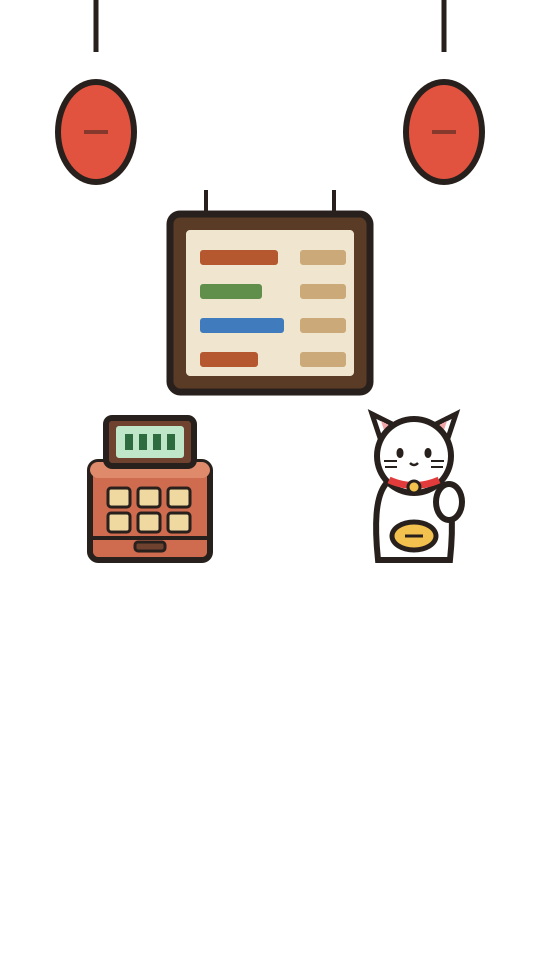
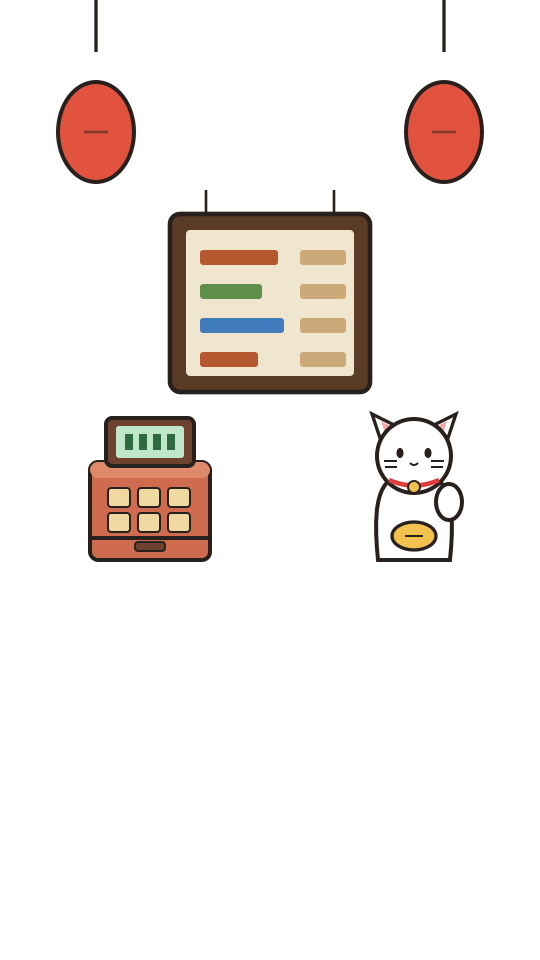
polish(menu): thinner outlines on the counter scene
Scaled the cashier prop stroke widths (register / lucky cat / lanterns / menu
board) down ~1/3 (floored at 2) and slimmed the noren bottom border and counter
top edge — the counter scene reads more refined, less chunky.

diff --git a/assets/env/gen_svg.py b/assets/env/gen_svg.py
@@ -13,31 +13,31 @@ def main():
     <!-- wall -->
     <rect width="{W}" height="{H}" fill="#e7d2ab"/>
     <rect y="300" width="{W}" height="212" fill="#d8c099"/>
-    <g stroke="#c9b083" stroke-width="3"><path d="M0 300 H{W} M128 300 V512 M384 300 V512 M640 300 V512 M256 406 H512"/></g>
+    <g stroke="#c9b083" stroke-width="2"><path d="M0 300 H{W} M128 300 V512 M384 300 V512 M640 300 V512 M256 406 H512"/></g>
     <!-- green noren across the top -->
-    <rect x="0" y="0" width="{W}" height="120" fill="#3f8f6a" stroke="{INK}" stroke-width="6"/>
-    <g stroke="{INK}" stroke-width="5">
+    <rect x="0" y="0" width="{W}" height="120" fill="#3f8f6a" stroke="{INK}" stroke-width="4"/>
+    <g stroke="{INK}" stroke-width="3.3">
       <path d="M110 120 V40 M220 120 V40 M330 120 V40 M440 120 V40 M550 120 V40 M660 120 V40"/></g>
     <!-- hanging lanterns -->
     <g>
-      <path d="M120 0 V60" stroke="{INK}" stroke-width="5"/>
-      <ellipse cx="120" cy="150" rx="42" ry="56" fill="#e2533f" stroke="{INK}" stroke-width="6"/>
-      <path d="M88 150 h64" stroke="{INK}" stroke-width="4" opacity="0.5"/>
-      <path d="M648 0 V60" stroke="{INK}" stroke-width="5"/>
-      <ellipse cx="648" cy="150" rx="42" ry="56" fill="#e2533f" stroke="{INK}" stroke-width="6"/>
-      <path d="M616 150 h64" stroke="{INK}" stroke-width="4" opacity="0.5"/></g>
+      <path d="M120 0 V60" stroke="{INK}" stroke-width="3.3"/>
+      <ellipse cx="120" cy="150" rx="42" ry="56" fill="#e2533f" stroke="{INK}" stroke-width="4"/>
+      <path d="M88 150 h64" stroke="{INK}" stroke-width="2.6" opacity="0.5"/>
+      <path d="M648 0 V60" stroke="{INK}" stroke-width="3.3"/>
+      <ellipse cx="648" cy="150" rx="42" ry="56" fill="#e2533f" stroke="{INK}" stroke-width="4"/>
+      <path d="M616 150 h64" stroke="{INK}" stroke-width="2.6" opacity="0.5"/></g>
     <!-- big steaming stock pot -->
-    <g fill="none" stroke="#ffffff" stroke-width="11" stroke-linecap="round" opacity="0.6">
+    <g fill="none" stroke="#ffffff" stroke-width="7.3" stroke-linecap="round" opacity="0.6">
       <path d="M250 250 q-26 -34 0 -68 q26 -34 0 -68"/>
       <path d="M320 250 q26 -34 0 -68 q-26 -34 0 -68"/></g>
-    <ellipse cx="290" cy="330" rx="118" ry="92" fill="#8d9099" stroke="{INK}" stroke-width="8"/>
-    <ellipse cx="290" cy="300" rx="110" ry="60" fill="#a6694a" stroke="{INK}" stroke-width="8"/>
+    <ellipse cx="290" cy="330" rx="118" ry="92" fill="#8d9099" stroke="{INK}" stroke-width="5.3"/>
+    <ellipse cx="290" cy="300" rx="110" ry="60" fill="#a6694a" stroke="{INK}" stroke-width="5.3"/>
     <ellipse cx="290" cy="300" rx="92" ry="46" fill="#eaa43e"/>
     <path d="M198 300 a92 46 0 0 0 184 0 a92 46 0 0 1 -184 0" fill="#d18b2c"/>
     <!-- a couple of ramen bowls on the right -->
     {bowl(560,300)}{bowl(660,330,0.8)}
     <!-- wooden counter -->
-    <rect x="0" y="430" width="{W}" height="82" fill="#a9743f" stroke="{INK}" stroke-width="8"/>
+    <rect x="0" y="430" width="{W}" height="82" fill="#a9743f" stroke="{INK}" stroke-width="5.3"/>
     <rect x="0" y="430" width="{W}" height="14" fill="#c08a4e"/>
     '''
     svg = f'<svg xmlns="http://www.w3.org/2000/svg" viewBox="0 0 {W} {H}">{body}</svg>'
@@ -50,8 +50,8 @@ def bowl(cx, cy, s=1.0):
     rx, ry = 60 * s, 30 * s
     return f'''<g>
     <path d="M{cx-rx} {cy} C{cx-rx} {cy-rx*0.7} {cx+rx} {cy-rx*0.7} {cx+rx} {cy} C{cx+rx} {cy+ry*1.6} {cx-rx} {cy+ry*1.6} {cx-rx} {cy} Z"
-          fill="#dc4a44" stroke="{INK}" stroke-width="7"/>
-    <ellipse cx="{cx}" cy="{cy}" rx="{rx}" ry="{ry}" fill="#ec6a60" stroke="{INK}" stroke-width="7"/>
+          fill="#dc4a44" stroke="{INK}" stroke-width="4.6"/>
+    <ellipse cx="{cx}" cy="{cy}" rx="{rx}" ry="{ry}" fill="#ec6a60" stroke="{INK}" stroke-width="4.6"/>
     <ellipse cx="{cx}" cy="{cy}" rx="{rx*0.78}" ry="{ry*0.72}" fill="#eaa43e"/>
     </g>'''
 
@@ -59,40 +59,40 @@ def bowl(cx, cy, s=1.0):
 def register(cx, by):
     # a cash register sitting with its base on the counter top (y=by)
     return f'''<g>
-    <rect x="{cx-60}" y="{by-98}" width="120" height="98" rx="8" fill="#cf6b4e" stroke="{INK}" stroke-width="6"/>
+    <rect x="{cx-60}" y="{by-98}" width="120" height="98" rx="8" fill="#cf6b4e" stroke="{INK}" stroke-width="4"/>
     <rect x="{cx-60}" y="{by-98}" width="120" height="16" rx="8" fill="#e08a6c"/>
     <!-- display housing + screen -->
-    <rect x="{cx-44}" y="{by-142}" width="88" height="48" rx="6" fill="#6f4230" stroke="{INK}" stroke-width="6"/>
+    <rect x="{cx-44}" y="{by-142}" width="88" height="48" rx="6" fill="#6f4230" stroke="{INK}" stroke-width="4"/>
     <rect x="{cx-34}" y="{by-134}" width="68" height="32" rx="3" fill="#bfe6c8"/>
     <g fill="#2e6b3f"><rect x="{cx-25}" y="{by-126}" width="8" height="16"/><rect x="{cx-11}" y="{by-126}" width="8" height="16"/><rect x="{cx+3}" y="{by-126}" width="8" height="16"/><rect x="{cx+17}" y="{by-126}" width="8" height="16"/></g>
     <!-- keypad -->
-    <g fill="#f0d9a0" stroke="{INK}" stroke-width="3">
+    <g fill="#f0d9a0" stroke="{INK}" stroke-width="2">
       <rect x="{cx-42}" y="{by-72}" width="22" height="19" rx="3"/><rect x="{cx-12}" y="{by-72}" width="22" height="19" rx="3"/><rect x="{cx+18}" y="{by-72}" width="22" height="19" rx="3"/>
       <rect x="{cx-42}" y="{by-47}" width="22" height="19" rx="3"/><rect x="{cx-12}" y="{by-47}" width="22" height="19" rx="3"/><rect x="{cx+18}" y="{by-47}" width="22" height="19" rx="3"/>
     </g>
     <!-- drawer line + handle -->
     <rect x="{cx-60}" y="{by-24}" width="120" height="4" fill="{INK}"/>
-    <rect x="{cx-15}" y="{by-18}" width="30" height="9" rx="3" fill="#6f4230" stroke="{INK}" stroke-width="3"/>
+    <rect x="{cx-15}" y="{by-18}" width="30" height="9" rx="3" fill="#6f4230" stroke="{INK}" stroke-width="2"/>
     </g>'''
 
 
 def lucky_cat(cx, by):
     # a maneki-neko sitting on the counter top (y=by)
     return f'''<g>
-    <path d="M{cx-36} {by} C{cx-44} {by-78} {cx-26} {by-86} {cx} {by-86} C{cx+26} {by-86} {cx+44} {by-78} {cx+36} {by} Z" fill="#ffffff" stroke="{INK}" stroke-width="6"/>
-    <ellipse cx="{cx}" cy="{by-24}" rx="22" ry="14" fill="#f2c14e" stroke="{INK}" stroke-width="5"/>
-    <path d="M{cx-9} {by-24} h18" stroke="{INK}" stroke-width="3"/>
-    <path d="M{cx-34} {by-122} l-8 -24 l26 13 Z" fill="#ffffff" stroke="{INK}" stroke-width="5"/>
-    <path d="M{cx+34} {by-122} l8 -24 l-26 13 Z" fill="#ffffff" stroke="{INK}" stroke-width="5"/>
+    <path d="M{cx-36} {by} C{cx-44} {by-78} {cx-26} {by-86} {cx} {by-86} C{cx+26} {by-86} {cx+44} {by-78} {cx+36} {by} Z" fill="#ffffff" stroke="{INK}" stroke-width="4"/>
+    <ellipse cx="{cx}" cy="{by-24}" rx="22" ry="14" fill="#f2c14e" stroke="{INK}" stroke-width="3.3"/>
+    <path d="M{cx-9} {by-24} h18" stroke="{INK}" stroke-width="2"/>
+    <path d="M{cx-34} {by-122} l-8 -24 l26 13 Z" fill="#ffffff" stroke="{INK}" stroke-width="3.3"/>
+    <path d="M{cx+34} {by-122} l8 -24 l-26 13 Z" fill="#ffffff" stroke="{INK}" stroke-width="3.3"/>
     <path d="M{cx-29} {by-127} l-4 -12 l13 7 Z" fill="#f4a6a6"/>
     <path d="M{cx+29} {by-127} l4 -12 l-13 7 Z" fill="#f4a6a6"/>
-    <circle cx="{cx}" cy="{by-104}" r="37" fill="#ffffff" stroke="{INK}" stroke-width="6"/>
-    <ellipse cx="{cx+35}" cy="{by-58}" rx="13" ry="18" fill="#ffffff" stroke="{INK}" stroke-width="6"/>
-    <path d="M{cx-25} {by-80} Q{cx} {by-69} {cx+25} {by-80}" fill="none" stroke="#e23b3b" stroke-width="7"/>
-    <circle cx="{cx}" cy="{by-73}" r="6" fill="#f2c14e" stroke="{INK}" stroke-width="3"/>
+    <circle cx="{cx}" cy="{by-104}" r="37" fill="#ffffff" stroke="{INK}" stroke-width="4"/>
+    <ellipse cx="{cx+35}" cy="{by-58}" rx="13" ry="18" fill="#ffffff" stroke="{INK}" stroke-width="4"/>
+    <path d="M{cx-25} {by-80} Q{cx} {by-69} {cx+25} {by-80}" fill="none" stroke="#e23b3b" stroke-width="4.6"/>
+    <circle cx="{cx}" cy="{by-73}" r="6" fill="#f2c14e" stroke="{INK}" stroke-width="2"/>
     <ellipse cx="{cx-14}" cy="{by-107}" rx="3.5" ry="5" fill="{INK}"/>
     <ellipse cx="{cx+14}" cy="{by-107}" rx="3.5" ry="5" fill="{INK}"/>
-    <path d="M{cx-4} {by-97} q4 4 8 0" fill="none" stroke="{INK}" stroke-width="2.5"/>
+    <path d="M{cx-4} {by-97} q4 4 8 0" fill="none" stroke="{INK}" stroke-width="2"/>
     <g stroke="{INK}" stroke-width="2"><path d="M{cx-17} {by-99} h-13 M{cx+17} {by-99} h13 M{cx-17} {by-93} h-12 M{cx+17} {by-93} h12"/></g>
     </g>'''
 
@@ -110,15 +110,15 @@ def cashier():
     # are drawn procedurally full-width in Menu.gd so they extend to any width.
     body = f'''
     <!-- hanging paper lanterns -->
-    <path d="M96 0 V52" stroke="{INK}" stroke-width="5"/>
-    <ellipse cx="96" cy="132" rx="38" ry="50" fill="#e2533f" stroke="{INK}" stroke-width="6"/>
-    <path d="M84 132 h24" stroke="{INK}" stroke-width="4" opacity="0.5"/>
-    <path d="M444 0 V52" stroke="{INK}" stroke-width="5"/>
-    <ellipse cx="444" cy="132" rx="38" ry="50" fill="#e2533f" stroke="{INK}" stroke-width="6"/>
-    <path d="M432 132 h24" stroke="{INK}" stroke-width="4" opacity="0.5"/>
+    <path d="M96 0 V52" stroke="{INK}" stroke-width="3.3"/>
+    <ellipse cx="96" cy="132" rx="38" ry="50" fill="#e2533f" stroke="{INK}" stroke-width="4"/>
+    <path d="M84 132 h24" stroke="{INK}" stroke-width="2.6" opacity="0.5"/>
+    <path d="M444 0 V52" stroke="{INK}" stroke-width="3.3"/>
+    <ellipse cx="444" cy="132" rx="38" ry="50" fill="#e2533f" stroke="{INK}" stroke-width="4"/>
+    <path d="M432 132 h24" stroke="{INK}" stroke-width="2.6" opacity="0.5"/>
     <!-- hanging menu / price board -->
-    <g stroke="{INK}" stroke-width="4"><path d="M206 216 V190 M334 216 V190"/></g>
-    <rect x="170" y="214" width="200" height="178" rx="10" fill="#5a3b26" stroke="{INK}" stroke-width="7"/>
+    <g stroke="{INK}" stroke-width="2.6"><path d="M206 216 V190 M334 216 V190"/></g>
+    <rect x="170" y="214" width="200" height="178" rx="10" fill="#5a3b26" stroke="{INK}" stroke-width="4.6"/>
     <rect x="186" y="230" width="168" height="146" rx="4" fill="#f0e6cf"/>
     {rows}
     {register(150, cy)}